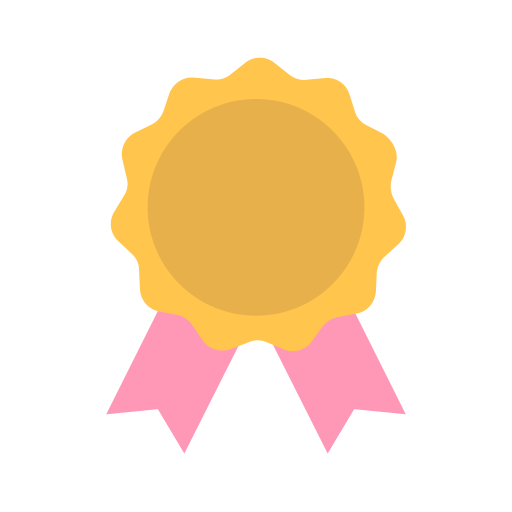
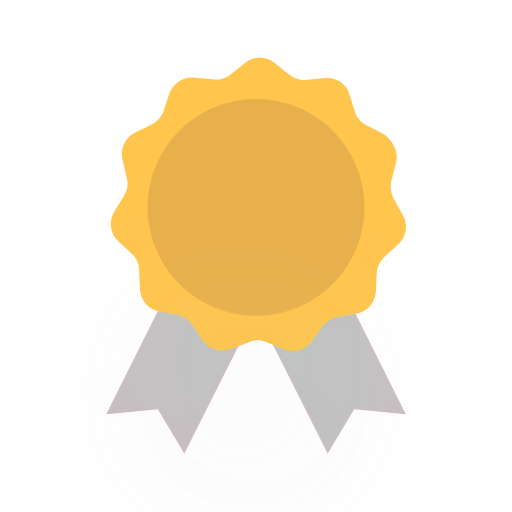
made debug achievements and updated hint achievement images. Alignment also adjusted

Changed region(s): [[0.1875, 0.5938, 0.4688, 0.875], [0.5312, 0.5938, 0.8125, 0.875]]

diff --git a/faang_code/src/Pages/Dashboard/index.js b/faang_code/src/Pages/Dashboard/index.js
@@ -7,7 +7,7 @@ import {useNavigate} from "react-router-dom";
 import { Chart as ChartJS, CategoryScale, LinearScale,BarElement, PointElement, LineElement, Title, Tooltip, ArcElement, Legend } from 'chart.js';
 ChartJS.register(CategoryScale, LinearScale, BarElement, PointElement, LineElement, Title, Tooltip, ArcElement, Legend);
 
-//function for badges & achievements
+//function for hint badges & achievements
 function getHintBadges(totalHints) {
     const badges = [];
 
@@ -15,6 +15,17 @@ function getHintBadges(totalHints) {
     if (totalHints >= 10) badges.push("hint_apprentice");
     if (totalHints >= 25) badges.push("hint_pro");
     if (totalHints >= 50) badges.push("hint_legend");
+
+    return badges;
+}
+//function for debug badges and achievements
+function getDebugBadges(totalDebugs) {
+    const badges = [];
+
+    if (totalDebugs >= 1) badges.push("debug_scout");
+    if (totalDebugs >= 10) badges.push("debug_hunter");
+    if (totalDebugs >= 25) badges.push("debug_master");
+    if (totalDebugs >= 50) badges.push("debug_whisperer");
 
     return badges;
 }
@@ -181,6 +192,7 @@ function Dashboard() {
         : 0;
 
     const userHintBadges = getHintBadges(totalHintsUsed);
+    const debugBadges = userStats ? getDebugBadges(userStats.totalDebug || 0) : [];
 
     function HintBadge({ title, icon, unlocked }) {
         return (
@@ -231,10 +243,20 @@ function Dashboard() {
                                    unlocked={userHintBadges.includes("hint_novice")}/>
                         <HintBadge title="Hint Apprentice" icon="/Badges/badge2.png"
                                    unlocked={userHintBadges.includes("hint_apprentice")}/>
-                        <HintBadge title="Hint Pro" icon="/Badges/badge3.png"
+                        <HintBadge title="Hint Professional" icon="/Badges/badge3.png"
                                    unlocked={userHintBadges.includes("hint_pro")}/>
                         <HintBadge title="Hint Legend" icon="/Badges/badge4.png"
                                    unlocked={userHintBadges.includes("hint_legend")}/>
+                    </div>
+                    <div className="badge-container">
+                        <HintBadge title="Debug Scout" icon="/Badges/badge1D.png"
+                                   unlocked={debugBadges.includes("debug_scout")}/>
+                        <HintBadge title="Debug Hunter" icon="/Badges/badge2D.png"
+                                   unlocked={debugBadges.includes("debug_hunter")}/>
+                        <HintBadge title="Debug Master" icon="/Badges/badge3D.png"
+                                   unlocked={debugBadges.includes("debug_master")}/>
+                        <HintBadge title="Debug Whisperer" icon="/Badges/badge4D.png"
+                                   unlocked={debugBadges.includes("debug_whisperper")}/>
                     </div>
                 </div>
                 <div className="stat-item">

diff --git a/faang_code/src/Pages/Dashboard/index.css b/faang_code/src/Pages/Dashboard/index.css
@@ -6,7 +6,7 @@
     flex-direction: column;
     align-items: center;
     box-sizing: border-box;
-    margin-top: 35cm;
+    margin-top: 45cm;
     text-align: center;
 
 }
